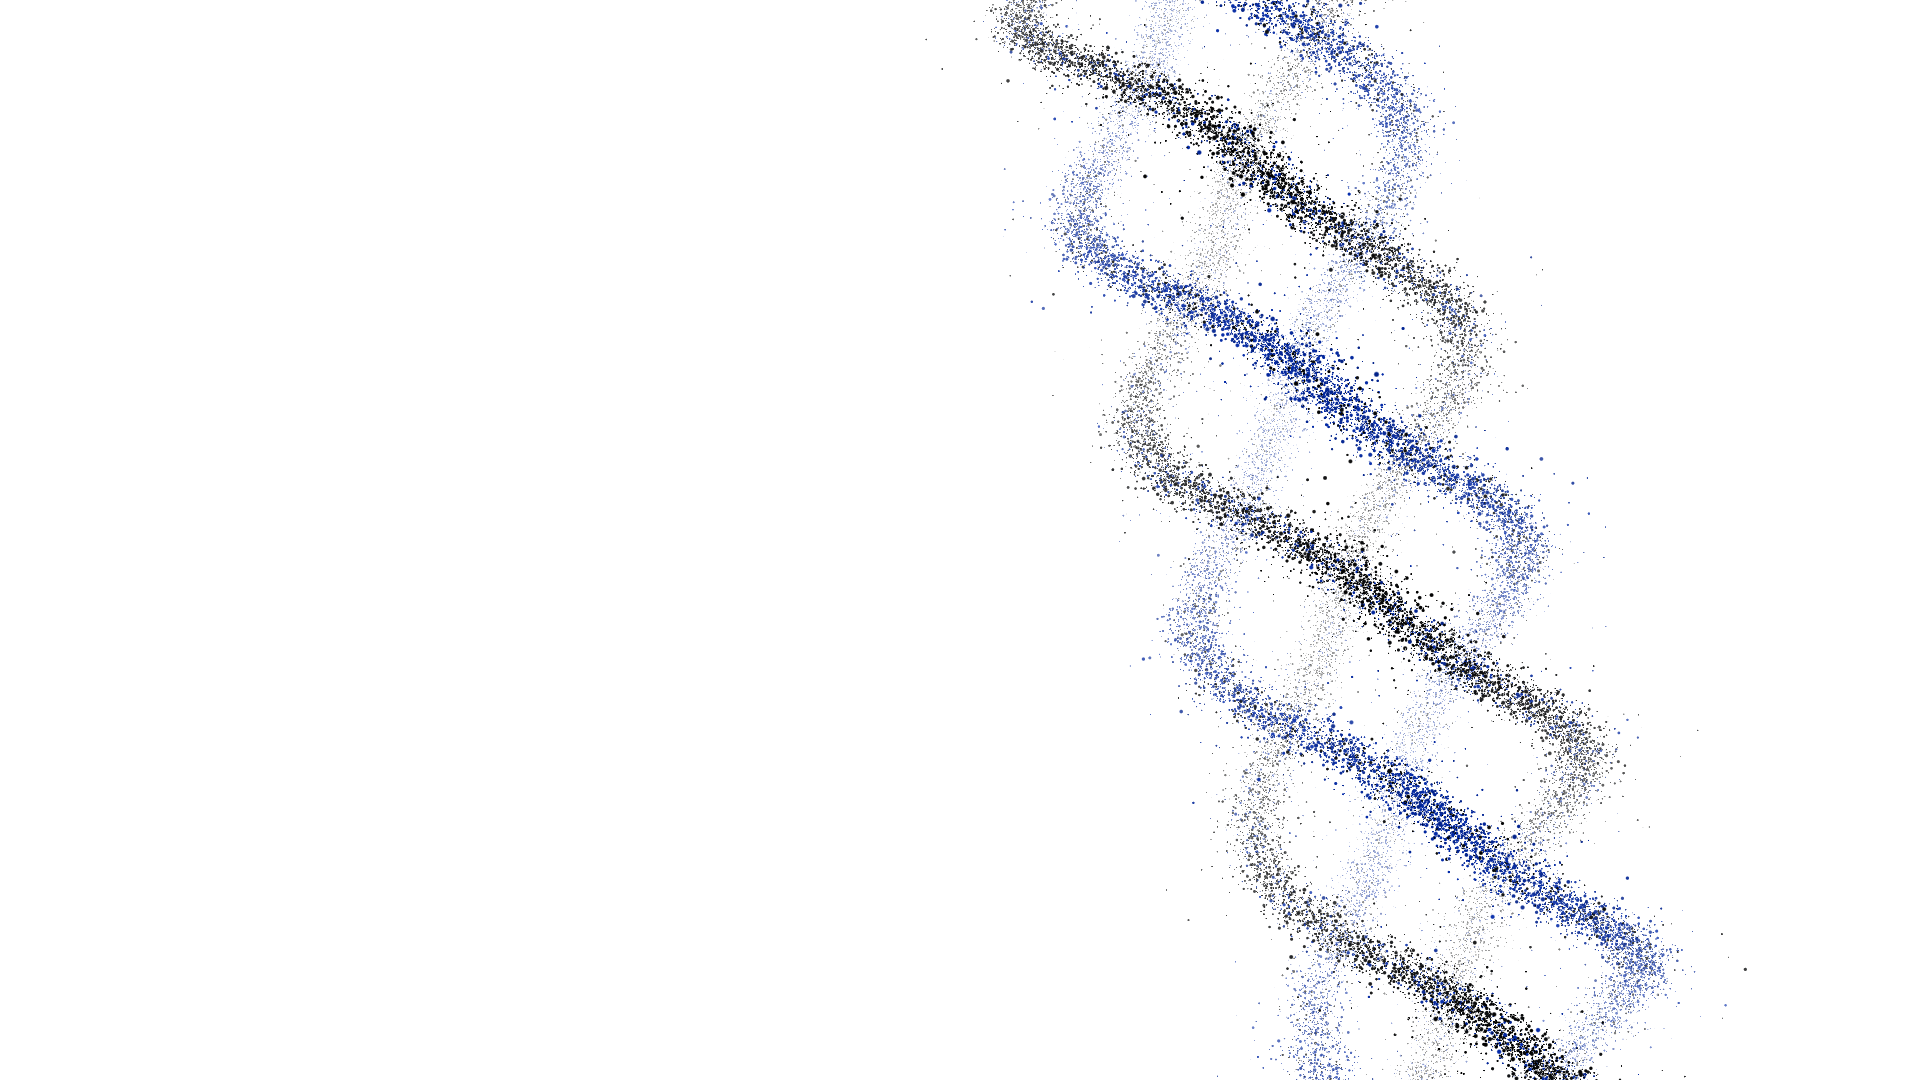
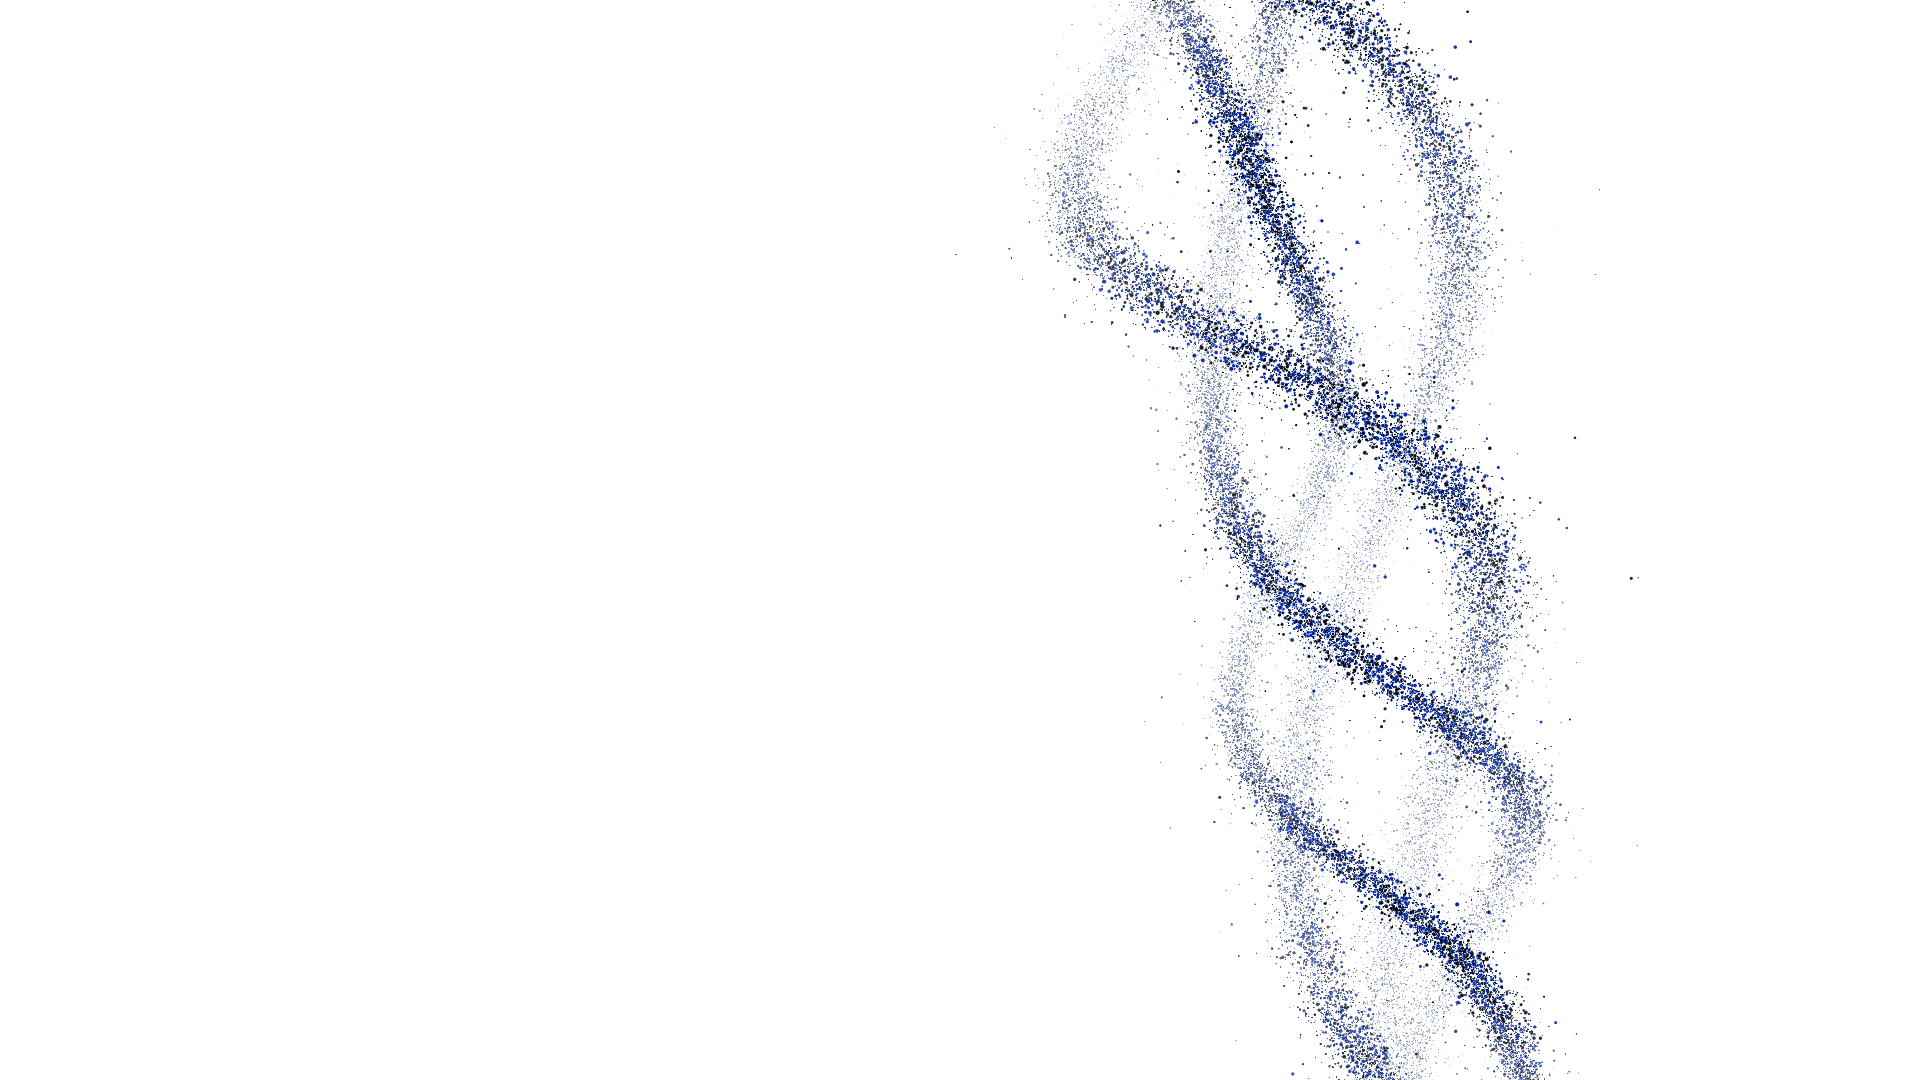
Asymmetric strands, mixed colours, remove pulsing
Claude-Session: https://claude.ai/code/session_01LC9PoW5GSUPN2TTK73ZPiw

Changed region(s): [[0.5, 0.0, 0.875, 1.0]]

diff --git a/index.html b/index.html
@@ -21,8 +21,7 @@ const CONFIG = {
   tiltDeg: 16,            // nagib ose: vrh se naginje ulevo
   flowSpeed: 0.04,        // brzina kretanja cestica nagore
   twistSpeed: 0.9,        // brzina uvijanja linija jedna oko druge
-  twistsPerUnit: 1.25,    // koliko su gusto uvrnute (vise = vise ukrstanja)
-  braidRadius: 0.75,      // poluprecnik preplitanja
+  blueShare: 0.62,        // udeo plavih cestica (ostalo tamne) - boje su izmesane
   particlesPerStrand: 20000,
   thickness: 0.085,       // debljina linije
   length: 12,             // duzina linija (prelaze ivice ekrana)
@@ -34,12 +33,16 @@ const CONFIG = {
   mouseRecover: 1.6,      // brzina vracanja u liniju (vise = brze)
 };
 
-// 4 linije ravnomerno rasporedjene oko ose; boje se smenjuju plava / tamna
-const STRANDS = [0, 1, 2, 3].map(k => ({
-  ph: k * Math.PI / 2,
-  main: k % 2 === 0 ? CONFIG.blue : CONFIG.dark,
-  accent: k % 2 === 0 ? CONFIG.dark : CONFIG.blue,
-}));
+// 4 linije, svaka svoja (asimetricno):
+// r  = poluprecnik oko ose, f = koliko je gusto uvrnuta, ph = pocetni ugao,
+// spin = sopstvena brzina uvijanja, ra/rk = kako se poluprecnik menja duz linije,
+// wa/wk = sopstveno vijuganje linije, thick = debljina
+const STRANDS = [
+  { r: 0.85, f: 1.05, ph: 0.0, spin: 1.00, ra: 0.35, rk: 0.55, wa: 0.18, wk: 0.70, thick: 1.15 },
+  { r: 0.55, f: 1.30, ph: 2.1, spin: 1.12, ra: 0.45, rk: 0.80, wa: 0.25, wk: 0.45, thick: 0.85 },
+  { r: 1.05, f: 0.85, ph: 3.6, spin: 0.90, ra: 0.25, rk: 0.40, wa: 0.15, wk: 0.95, thick: 1.0 },
+  { r: 0.40, f: 1.45, ph: 5.0, spin: 1.20, ra: 0.55, rk: 1.10, wa: 0.30, wk: 0.60, thick: 0.75 },
+];
 
 const params = new URLSearchParams(location.search);
 const STILL = params.has('t');           // ?t=12 -> staticni kadar
@@ -69,7 +72,8 @@ const gauss = () => {
 
 const total = STRANDS.length * CONFIG.particlesPerStrand;
 const aS = new Float32Array(total);
-const aPh = new Float32Array(total);
+const aStA = new Float32Array(total * 4);
+const aStB = new Float32Array(total * 4);
 const aOff = new Float32Array(total * 3);
 const aRand = new Float32Array(total * 4);
 const aSize = new Float32Array(total);
@@ -78,18 +82,19 @@ const aColor = new Float32Array(total * 3);
 
 let i = 0;
 STRANDS.forEach((st) => {
-  const main = new THREE.Color(st.main), accent = new THREE.Color(st.accent);
+  const blue = new THREE.Color(CONFIG.blue), dark = new THREE.Color(CONFIG.dark);
   for (let k = 0; k < CONFIG.particlesPerStrand; k++, i++) {
     aS[i] = Math.random();
-    aPh[i] = st.ph;
-    const spread = CONFIG.thickness * (Math.random() < 0.07 ? 2.8 : 1.0);
+    aStA.set([st.r, st.f, st.ph, st.spin], i * 4);
+    aStB.set([st.ra, st.rk, st.wa, st.wk], i * 4);
+    const spread = CONFIG.thickness * st.thick * (Math.random() < 0.07 ? 2.8 : 1.0);
     aOff.set([gauss() * spread, gauss() * spread * 0.6, gauss() * spread], i * 3);
     // nasumican pravac za rasipanje
     const v = new THREE.Vector3(gauss(), gauss(), gauss()).normalize();
     aRand.set([v.x, v.y, v.z, 0.4 + Math.random() * 1.2], i * 4);
     aSize[i] = 0.6 + Math.random() * Math.random() * 1.8;
     aSpeed[i] = 0.85 + Math.random() * 0.3;
-    const c = (Math.random() < 0.18 ? accent : main).clone()
+    const c = (Math.random() < CONFIG.blueShare ? blue : dark).clone()
       .offsetHSL(0, 0, (Math.random() - 0.5) * 0.08);
     aColor.set([c.r, c.g, c.b], i * 3);
   }
@@ -98,7 +103,8 @@ STRANDS.forEach((st) => {
 const geo = new THREE.BufferGeometry();
 geo.setAttribute('position', new THREE.BufferAttribute(new Float32Array(total * 3), 3));
 geo.setAttribute('aS', new THREE.BufferAttribute(aS, 1));
-geo.setAttribute('aPh', new THREE.BufferAttribute(aPh, 1));
+geo.setAttribute('aStA', new THREE.BufferAttribute(aStA, 4));
+geo.setAttribute('aStB', new THREE.BufferAttribute(aStB, 4));
 geo.setAttribute('aOff', new THREE.BufferAttribute(aOff, 3));
 geo.setAttribute('aRand', new THREE.BufferAttribute(aRand, 4));
 geo.setAttribute('aSize', new THREE.BufferAttribute(aSize, 1));
@@ -113,8 +119,6 @@ const mat = new THREE.ShaderMaterial({
     uLen: { value: CONFIG.length },
     uFlow: { value: CONFIG.flowSpeed },
     uTwist: { value: CONFIG.twistSpeed },
-    uFreq: { value: CONFIG.twistsPerUnit },
-    uR: { value: CONFIG.braidRadius },
     uCenter: { value: new THREE.Vector3() },
     uDir: { value: dir },
     uU: { value: uAxis },
@@ -126,18 +130,21 @@ const mat = new THREE.ShaderMaterial({
     uMouseS: { value: CONFIG.mouseStrength },
   },
   vertexShader: /* glsl */`
-    attribute float aS; attribute float aPh; attribute vec3 aOff; attribute vec4 aRand;
+    attribute float aS; attribute vec4 aStA; attribute vec4 aStB; attribute vec3 aOff; attribute vec4 aRand;
     attribute float aSize; attribute float aSpeed; attribute vec3 aColor;
-    uniform float uTime, uLen, uFlow, uTwist, uFreq, uR, uPx, uForce, uMouseR, uMouseS;
+    uniform float uTime, uLen, uFlow, uTwist, uPx, uForce, uMouseR, uMouseS;
     uniform vec3 uCenter, uDir, uU, uW, uMouse;
     varying vec3 vColor; varying float vAlpha;
     void main() {
       float t = fract(aS + uTime * uFlow * aSpeed);          // tok nagore
       float s = (t - 0.5) * uLen;
-      float th = uFreq * s + aPh - uTime * uTwist;             // uvijanje oko ose
-      // pletenica: poluprecnik "dise" pa linije ulaze jedna u drugu
-      float r = uR * (1.0 + 0.32 * sin(2.0 * th + uTime * 0.6));
-      vec3 p = uCenter + uDir * s + r * (cos(th) * uU + sin(th) * uW) + aOff;
+      // svaka linija ima svoj ugao, gustinu i brzinu uvijanja
+      float th = aStA.y * s + aStA.z - uTime * uTwist * aStA.w;
+      // poluprecnik se menja duz linije (ne pulsira u vremenu)
+      float r = aStA.x * (1.0 + aStB.x * sin(aStB.y * s + aStA.z * 1.7));
+      // sopstveno vijuganje linije, nezavisno od ostalih
+      float wob = aStB.z * sin(aStB.w * s + aStA.z * 2.3);
+      vec3 p = uCenter + uDir * s + uU * wob + r * (cos(th) * uU + sin(th) * uW) + aOff;
 
       // rasipanje oko kursora
       vec2 d = p.xy - uMouse.xy;

diff --git a/README.md b/README.md
@@ -1,6 +1,6 @@
 # Particle Strands (three.js)
 
-4 linije od sitnih čestica (#106ACA i #14171A) koje se uvijaju jedna oko druge i teku nagore pod uglom, na beloj pozadini. Kada pređeš mišem (ili prstom), čestice se razlete na sve strane i zatim vrate u linije.
+4 asimetrične linije od izmešanih čestica (#106ACA i #14171A) koje se uvijaju jedna oko druge i teku nagore pod uglom, na beloj pozadini. Kada pređeš mišem (ili prstom), čestice se razlete na sve strane i zatim vrate u linije.
 
 ## Pokretanje
 Otvori `index.html` u browseru (three.js se učitava sa CDN-a), ili lokalno:
@@ -17,11 +17,10 @@ npx serve .
 | `tiltDeg` | nagib ose (vrh ulevo) |
 | `flowSpeed` | brzina kretanja čestica nagore |
 | `twistSpeed` | brzina uvijanja linija jedna oko druge |
-| `twistsPerUnit` | koliko su gusto uvrnute |
-| `braidRadius` | poluprečnik preplitanja |
 | `particlesPerStrand` | gustina čestica po liniji |
 | `thickness` | debljina linije |
-| `blue`, `dark` | dve boje (linije se smenjuju) |
+| `blue`, `dark`, `blueShare` | dve boje, izmešane; udeo plave |
+| `STRANDS[]` | oblik svake linije posebno (poluprečnik, gustina uvijanja, brzina, vijuganje, debljina) |
 | `mouseRadius` | koliko daleko od kursora čestice beže |
 | `mouseStrength` | koliko daleko odleću |
 | `mouseRecover` | brzina vraćanja u liniju |
